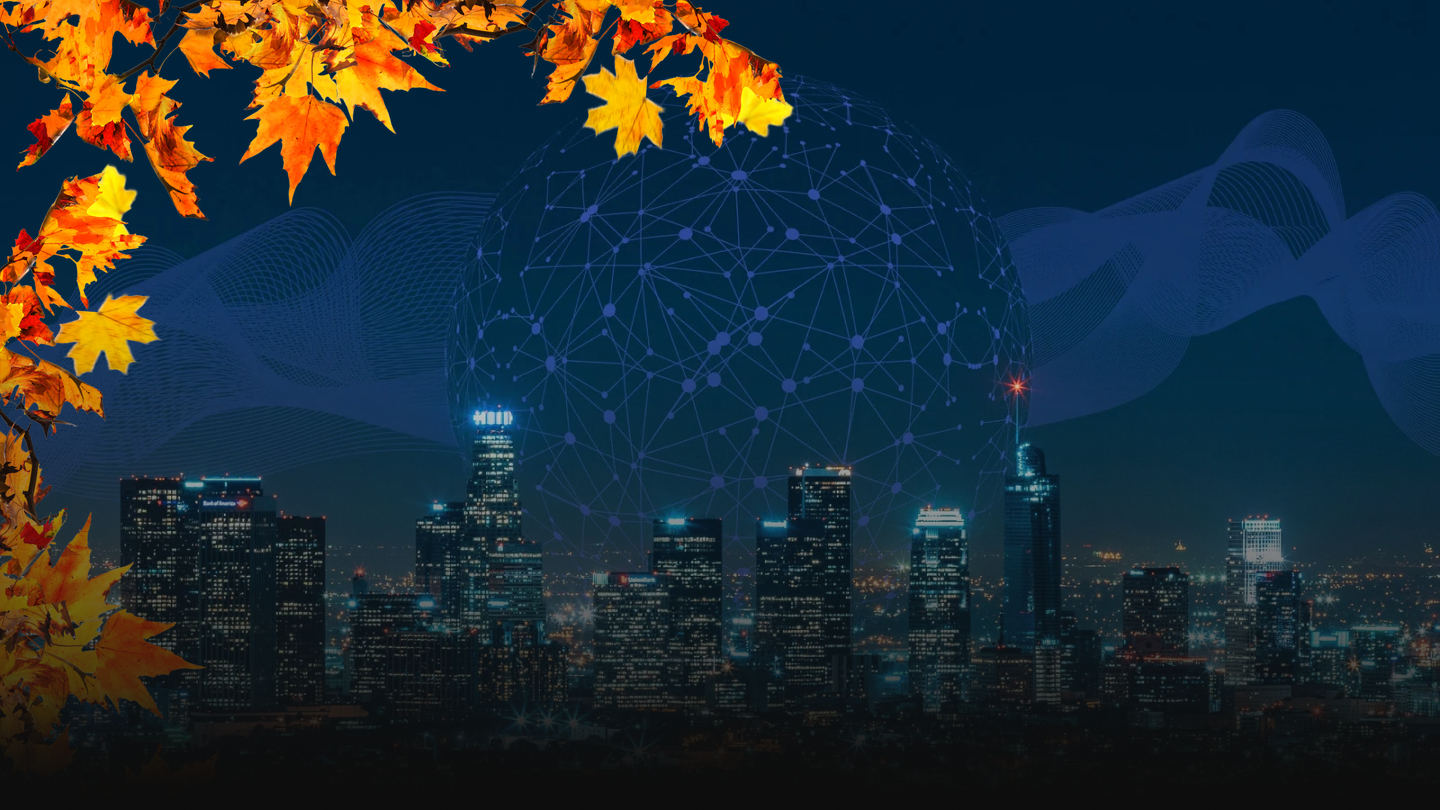
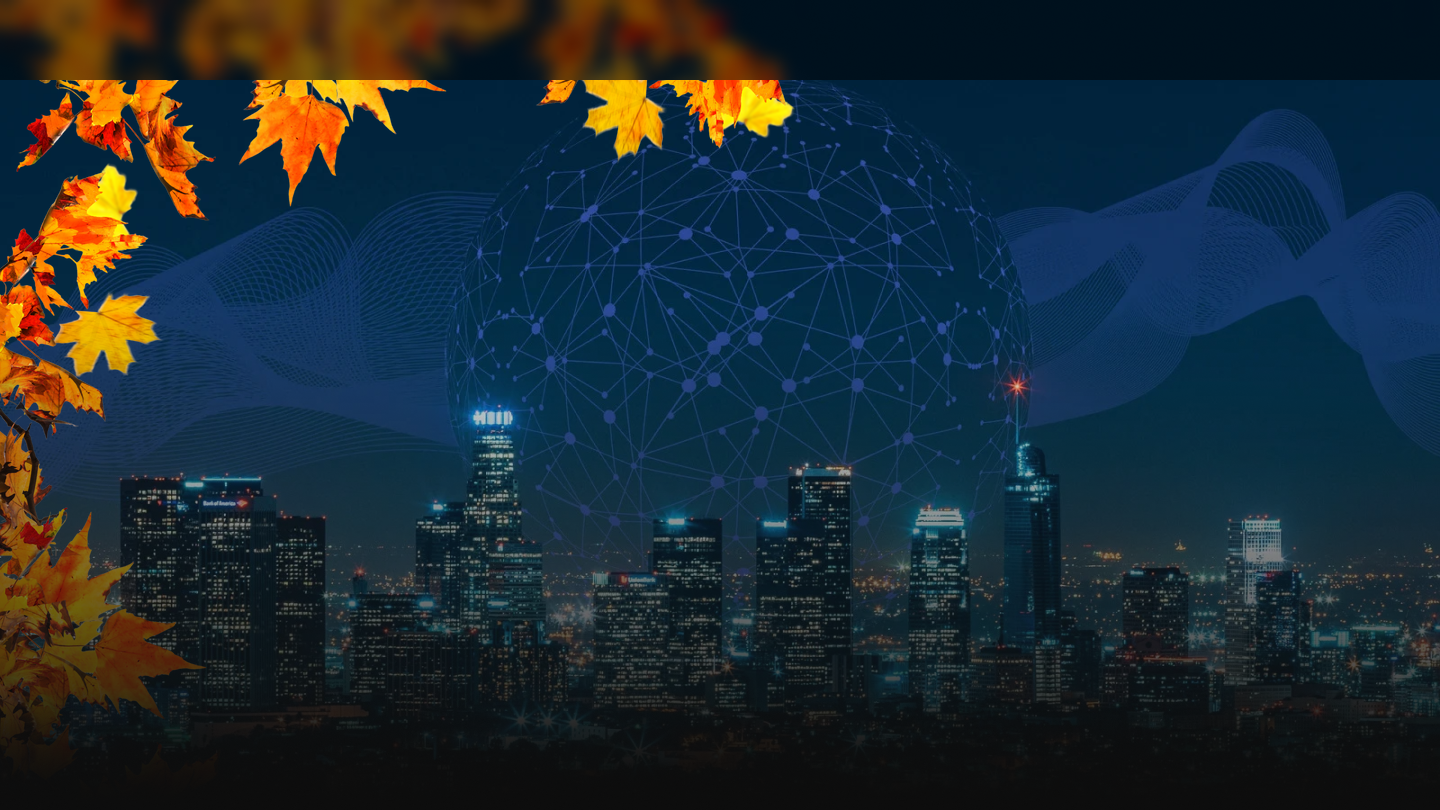
home-page mistake solve

Changed region(s): [[0.0, 0.0, 1.0, 0.1235]]

diff --git a/index.html b/index.html
@@ -11,72 +11,76 @@
 </head>
 
 <body class="text-white bg-black">
-    <section class="bg-img position-relative">
-        <nav class="d-flex nav-bg justify-space-between lg-center py-22 py-150">
-            <div>
-                <img src="/assets/image/svg/logo.svg" alt="logo">
-            </div>
-            <div onclick="navbarbtn()" class="z-5  d-lg-none">
-                <span class="menu-lines " id="rotats"></span>
-                <span class="menu-lines " id="transparent"></span>
-                <span class="menu-lines " id="rotats2"></span>
-            </div>
-            <ul id="nav-name" class="list-unstyled nav-link  d-flex">
-                <li class="pt-27 pl-23">
-                    <!-- <div>
-                        <img class="pt-15 " src="/assets/image/svg/logo.svg" alt="logo">
-                    </div> -->
-                </li>
-                <li>
-                    <ul class="d-flex list-unstyled gap-lg-14 pt-31 pt items-center gap-39">
-                        <li class="jost-family fw-light fs-sm lh-19 nav-links cursor-pointer">HOME</li>
-                        <li class="jost-family fw-light fs-sm lh-19 nav-links cursor-pointer">ABOUT</li>
-                        <li class="jost-family fw-light fs-sm lh-19 nav-links cursor-pointer">ROADMAP</li>
-                        <li class="jost-family fw-light fs-sm lh-19 nav-links cursor-pointer">TEAM</li>
-                        <li class="jost-family fw-light fs-sm lh-19 nav-links cursor-pointer">FAQ</li>
-                    </ul>
-                </li>
-                <li>
-                    <ul class="list-unstyled d-flex lg-justify-content-center gap-14 gap-lg-13 pt-26">
-                        <li>
-                            <a href="https://x.com/?lang=en">
-                                <img class="icon" src="/assets/image/svg/twiter-svg.svg" alt="twiter-svg">
-                            </a>
-                        </li>
-                        <li>
-                            <a href="https://web.telegram.org/">
-                                <img class="icon" src="./assets/image/svg/telegram-svg.svg" alt="telegram-svg">
-                            </a>
-                        </li>
-                        <li>
-                            <a href="https://www.instagram.com/">
-                                <img class="icon" src="./assets/image/svg/instagram-svg.svg" alt="instagram-svg">
-                            </a>
-                        </li>
-                        <li>
-                            <a href="https://discord.com/">
-                                <img class="icon" src="./assets/image/svg/discord-svg.svg" alt="discord-svg">
-                            </a>
-                        </li>
-                    </ul>
-                </li>
-            </ul>
-        </nav>
+    <section class="bg-img position-relative min-vh-100">
         <div class="container">
+            <nav class="d-flex justify-space-between lg-center py-22">
+                <div>
+                    <img src="/assets/image/svg/logo.svg" alt="logo">
+                </div>
+                <div onclick="navbarbtn()" class="z-5  d-lg-none">
+                    <span class="menu-lines " id="rotats"></span>
+                    <span class="menu-lines " id="transparent"></span>
+                    <span class="menu-lines " id="rotats2"></span>
+                </div>
+                <ul id="nav-name" class="list-unstyled nav-link  d-flex">
+                    <li class="pt-27 pl-23">
+                        <!-- <div>
+                            <img class="pt-15 " src="/assets/image/svg/logo.svg" alt="logo">
+                        </div> -->
+                    </li>
+                    <li>
+                        <ul class="d-flex list-unstyled gap-lg-14 pt-31 pt items-center gap-39">
+                            <li class="jost-family fw-light fs-sm lh-19 nav-links cursor-pointer">HOME</li>
+                            <li class="jost-family fw-light fs-sm lh-19 nav-links cursor-pointer">ABOUT</li>
+                            <li class="jost-family fw-light fs-sm lh-19 nav-links cursor-pointer">ROADMAP</li>
+                            <li class="jost-family fw-light fs-sm lh-19 nav-links cursor-pointer">TEAM</li>
+                            <li class="jost-family fw-light fs-sm lh-19 nav-links cursor-pointer">FAQ</li>
+                        </ul>
+                    </li>
+                    <li>
+                        <ul class="list-unstyled d-flex lg-justify-content-center gap-14 gap-lg-13 pt-26">
+                            <li>
+                                <a href="https://x.com/?lang=en">
+                                    <img class="icon" src="/assets/image/svg/twiter-svg.svg" alt="twiter-svg">
+                                </a>
+                            </li>
+                            <li>
+                                <a href="https://web.telegram.org/">
+                                    <img class="icon" src="./assets/image/svg/telegram-svg.svg" alt="telegram-svg">
+                                </a>
+                            </li>
+                            <li>
+                                <a href="https://www.instagram.com/">
+                                    <img class="icon" src="./assets/image/svg/instagram-svg.svg" alt="instagram-svg">
+                                </a>
+                            </li>
+                            <li>
+                                <a href="https://discord.com/">
+                                    <img class="icon" src="./assets/image/svg/discord-svg.svg" alt="discord-svg">
+                                </a>
+                            </li>
+                        </ul>
+                    </li>
+                </ul>
+            </nav>
             <div class="row col-reverse">
                 <div class="col-12 col-xl-6">
-                    <img class="w-100 pt-49" src="./assets/image/png/header-main-img.png" alt="">
+                    <img class="w-100 pt-209" src="./assets/image/png/header-main-img.png" alt="">
                 </div>
                 <div class="col-12 col-xl-6">
-                    <h4 class="fw-normal fs-lg lh-27 jost-family pt-70 text-md-center pb-10">Welcome to Nigalya</h4>
-                    <h1 class="mx-561 fw-bold fs-xxl jost-family lh-109 text-md-center">Land of eternal NFT challengers
-                    </h1>
-                    <h4 class="jost-family fw-normal fs-md lh-22 text-md-center pt-15">The first-choose-to earn on the
-                        blockchain</h4>
-                    <div class="mt-44 md-center mb-44">
-                        <button class="JOIN-btn jost-family fw-normal fs-md lh-22 cursor-pointer">JOIN NOW</button>
-                        <button
-                            class="Whitepaper-btn jost-family fw-normal fs-md lh-22 cursor-pointer">Whitepaper</button>
+                    <div class="pt-80">
+                        <h4 class="fw-normal fs-lg lh-27 jost-family pt-24 text-md-center pb-10">Welcome to Nigalya</h4>
+                        <h1 class="mx-561 fw-bold fs-xxl jost-family lh-109 text-md-center">Land of eternal NFT
+                            challengers
+                        </h1>
+                        <h4 class="jost-family fw-normal fs-md lh-22 text-md-center pt-15">The first-choose-to earn on
+                            the
+                            blockchain</h4>
+                        <div class="mt-30 md-center mb-44 z-1 position-relative">
+                            <button class="JOIN-btn jost-family fw-normal fs-md lh-22 cursor-pointer">JOIN NOW</button>
+                            <button
+                                class="Whitepaper-btn jost-family fw-normal fs-md lh-22 cursor-pointer">Whitepaper</button>
+                        </div>
                     </div>
                 </div>
             </div>
@@ -86,7 +90,7 @@
     <!-- ============section-2============ -->
     <section class="sec-2-bg-img">
         <div class="container">
-            <p class="fw-normal fs-lg lh-27 jost-family text-center mt-223">Trailor</p>
+            <p class="fw-normal fs-lg lh-27 jost-family text-center pt-223">Trailor</p>
             <p class="jost-family fw-bold fs-xxl lh-109 text-center">Coming soon...</p>
             <p class="jost-family fw-normal fs-xl lh-41 text-center mt-199">10:22:25:42</p>
             <p class="jost-family fw-light fs-sm text-center pb-74">Time left</p>

diff --git a/assets/css/style.css b/assets/css/style.css
@@ -9,12 +9,12 @@
     box-sizing: border-box;
 }
 
-section {
-    overflow: hidden;
+.min-vh-100 {
+    min-height: 100vh;
 }
 
 .container {
-    max-width: 1440px;
+    max-width: 1140px;
     margin-left: auto;
     margin-right: auto;
     padding-left: 12px;
@@ -97,18 +97,6 @@ section {
     transform: rotate(-44deg);
 }
 
-.nav-bg {
-    width: 100%;
-    height: 80px;
-    background: #00000080;
-    backdrop-filter: blur(20px);
-}
-
-.py-150 {
-    padding-left: 150px;
-    padding-right: 150px;
-}
-
 .pt-15 {
     padding-top: 15px;
 }
@@ -119,6 +107,14 @@ section {
 
 .pt-26 {
     padding-top: 26px;
+}
+
+.pt-209 {
+    padding-top: 209px;
+}
+
+.pt-80 {
+    padding-top: 233px;
 }
 
 .position-relative {
@@ -167,8 +163,12 @@ section {
     color: black;
 }
 
-.mt-44 {
-    margin-top: 44px;
+.z-1 {
+    z-index: 1;
+}
+
+.mt-30 {
+    margin-top: 30px;
 }
 
 .mx-656 {
@@ -195,10 +195,6 @@ section {
     background-image: url(/assets/image/png/sec-2-bg-img.png);
     background-size: cover;
     background-repeat: no-repeat;
-}
-
-.min-vh-100 {
-    height: 100vh !important;
 }
 
 .text-center {
@@ -237,12 +233,16 @@ section {
     margin-top: 199px;
 }
 
-.mt-223 {
-    margin-top: 223px;
+.pt-223 {
+    padding-top: 223px;
 }
 
 .pb-74 {
     padding-bottom: 74px;
+}
+
+.bg-transparent {
+    background-color: transparent;
 }
 
 @media (max-width:991.98px) {
@@ -270,10 +270,6 @@ section {
         align-items: center;
     }
 
-    .nav-ico {
-        display: none;
-    }
-
     .nav-bar {
         justify-content: space-between;
     }
@@ -291,10 +287,6 @@ section {
         top: 0%;
         transition: all 300ms linear !important;
         z-index: 3;
-    }
-
-    .bg-transparent {
-        background-color: transparent;
     }
 
     .show-nvabar {
@@ -359,12 +351,5 @@ section {
 
     .d-lg-none {
         display: none;
-    }
-}
-
-@media (max-width:1159.98px) {
-    .py-150 {
-        padding-left: 40px;
-        padding-right: 40px;
     }
 }

diff --git a/assets/css/root.css b/assets/css/root.css
@@ -4,7 +4,7 @@
     --fs-20: 20px;
     --fs-24: 24px;
     --fs-36: 36px;
-    --fs-96: 96px;
+    --fs-94: 94px;
     /* ----line-height----  */
     --lh-18: 18.24;
     --lh-19: 19.28px;
@@ -38,7 +38,7 @@
 }
 
 .fs-xxl {
-    font-size: var(--fs-96);
+    font-size: var(--fs-94);
 }
 
 .lh-18 {
@@ -88,7 +88,7 @@
 
 @media (max-width:575.98px) {
     :root {
-        --fs-96: 48px;
+        --fs-94: 48px;
         --lh-109: 51px;
     }
 }
